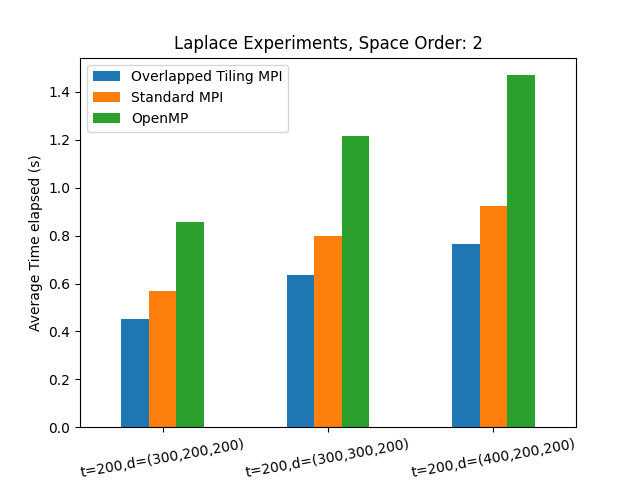
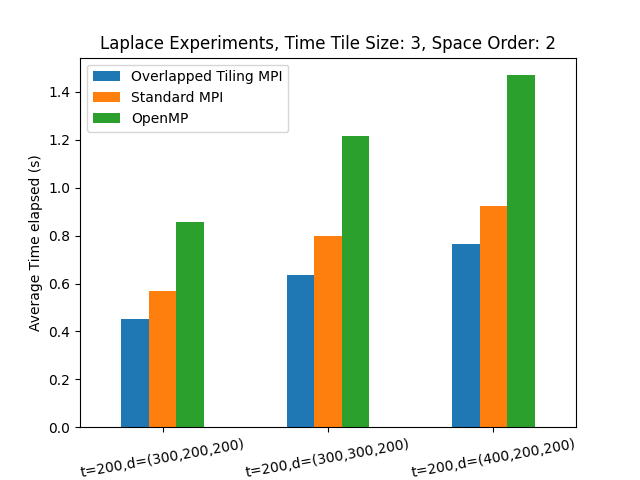
Add results for time tile size of 7

Changed region(s): [[0.1562, 0.0625, 0.875, 0.125]]

diff --git a/results/results-pinning_7_tts/artefacts_used/mpi_test_norms.py b/results/results-pinning_7_tts/artefacts_used/mpi_test_norms.py
@@ -1,0 +1,79 @@
+import sys
+sys.path.append('../devito')
+
+from devito import configuration
+import numpy as np
+
+from devito import (Grid, Eq, TimeFunction, Operator, norm,
+                    Constant, solve)
+from devito.ir import Iteration, FindNodes
+import argparse
+
+parser = argparse.ArgumentParser(description='Process arguments.')
+
+parser.add_argument("-d", "--shape", default=(64, 64, 64), type=int, nargs="+",
+                    help="Number of grid points along each axis")
+parser.add_argument("-so", "--space_order", default=2,
+                    type=int, help="Space order of the simulation")
+parser.add_argument("-to", "--time_order", default=1,
+                    type=int, help="Time order of the simulation")
+parser.add_argument("-nt", "--nt", default=40,
+                    type=int, help="Simulation time in millisecond")
+parser.add_argument("-bls", "--blevels", default=2, type=int, nargs="+",
+                    help="Block levels")
+args = parser.parse_args()
+
+
+nx, ny, nz = args.shape
+nt = args.nt
+nu = .5
+dx = 2. / (nx - 1)
+dy = 2. / (ny - 1)
+dz = 2. / (nz - 1)
+sigma = .25
+dt = sigma * dx * dz * dy / nu
+
+so = args.space_order
+to = 1
+
+# Initialise u
+init_value = 6.5
+
+# Field initialization
+grid = Grid(shape=(nx, ny, nz))
+u = TimeFunction(name='u', grid=grid, space_order=so, time_order=to)
+
+# Create an equation with second-order derivatives
+a = Constant(name='a')
+a = 0.5
+eq = Eq(u.dt, a*u.laplace + 0.1)
+stencil = solve(eq, u.forward)
+eq0 = Eq(u.forward, stencil)
+
+# ======= mpi standard implementation
+u.data[:, :, :, :] = 0
+u.data[:, 10, 10, 10] = init_value
+u.data[:, 10, 30, 30] = -init_value
+
+configuration['mpi'] = 'full'
+op0 = Operator(eq0, opt=('advanced', {'mpi': True}))
+op0.apply(time_M=nt, dt=dt)
+norm_u = norm(u)
+
+# ======= mpi overlapped implementation
+u.data[:, :, :, :] = 0
+u.data[:, 10, 10, 10] = init_value
+u.data[:, 10, 30, 30] = -init_value
+configuration['mpi'] = True
+
+op1 = Operator(eq0, opt=('advanced', {'mpi': True}))
+op1.apply(time_M=nt, dt=dt)
+
+usol = u
+
+print(norm_u)
+print(norm(u))
+assert np.isclose(norm(u), norm_u, atol=1e-4, rtol=0)
+print("Asserted")
+
+# plt.imshow(usol.data[1, 10, :, :]); pause(1)

diff --git a/results/results-pinning_7_tts/artefacts_used/mpi_experiment.py b/results/results-pinning_7_tts/artefacts_used/mpi_experiment.py
@@ -1,0 +1,66 @@
+import sys
+sys.path.append('../devito')
+
+from devito import configuration
+import numpy as np
+import os
+import time
+
+from devito import (Grid, Eq, TimeFunction, Operator, norm,
+                    Constant, solve)
+from devito.ir import Iteration, FindNodes
+import argparse
+
+parser = argparse.ArgumentParser(description='Process arguments.')
+
+parser.add_argument("-d", "--shape", default=(64, 64, 64), type=int, nargs="+",
+                    help="Number of grid points along each axis")
+parser.add_argument("-so", "--space_order", default=2,
+                    type=int, help="Space order of the simulation")
+parser.add_argument("-to", "--time_order", default=1,
+                    type=int, help="Time order of the simulation")
+parser.add_argument("-nt", "--nt", default=40,
+                    type=int, help="Simulation time in millisecond")
+parser.add_argument("-bls", "--blevels", default=2, type=int, nargs="+",
+                    help="Block levels")
+args = parser.parse_args()
+
+
+nx, ny, nz = args.shape
+nt = args.nt
+nu = .5
+dx = 2. / (nx - 1)
+dy = 2. / (ny - 1)
+dz = 2. / (nz - 1)
+sigma = .25
+dt = sigma * dx * dz * dy / nu
+
+so = args.space_order
+to = 1
+
+# Initialise u
+init_value = 6.5
+
+# Field initialization
+grid = Grid(shape=(nx, ny, nz))
+u = TimeFunction(name='u', grid=grid, space_order=so, time_order=to)
+
+# Create an equation with second-order derivatives
+a = Constant(name='a')
+a = 0.5
+eq = Eq(u.dt, a*u.laplace + 0.1)
+stencil = solve(eq, u.forward)
+eq0 = Eq(u.forward, stencil)
+
+# ======= mpi standard implementation
+u.data[:, :, :, :] = 0
+u.data[:, 10, 10, 10] = init_value
+u.data[:, 10, 30, 30] = -init_value
+
+op0 = Operator(eq0, opt=('advanced'))
+op0.apply(time_M=nt, dt=dt)
+
+try:
+    os.remove("global_stats.txt")
+except FileNotFoundError:
+    pass    

diff --git a/results/results-pinning_7_tts/postprocessing.py b/results/results-pinning_7_tts/postprocessing.py
@@ -62,7 +62,7 @@ def generate_graph(space_order):
     def save_graph(results):
         df = pd.DataFrame(results, columns=['Dimensions', 'Overlapped Tiling MPI', 'Standard MPI', 'OpenMP'])
         df.plot(x='Dimensions', kind='bar', rot=10, ylabel="Average Time elapsed (s)", 
-                title="Laplace Experiments, Time Tile Size: 3, Space Order: " + str(space_order))
+                title="Laplace Experiments, Time Tile Size: 7, Space Order: " + str(space_order))
         plt.savefig(graphs_folder + "results_" + str(space_order) + "so")
     
     save_graph(results)
